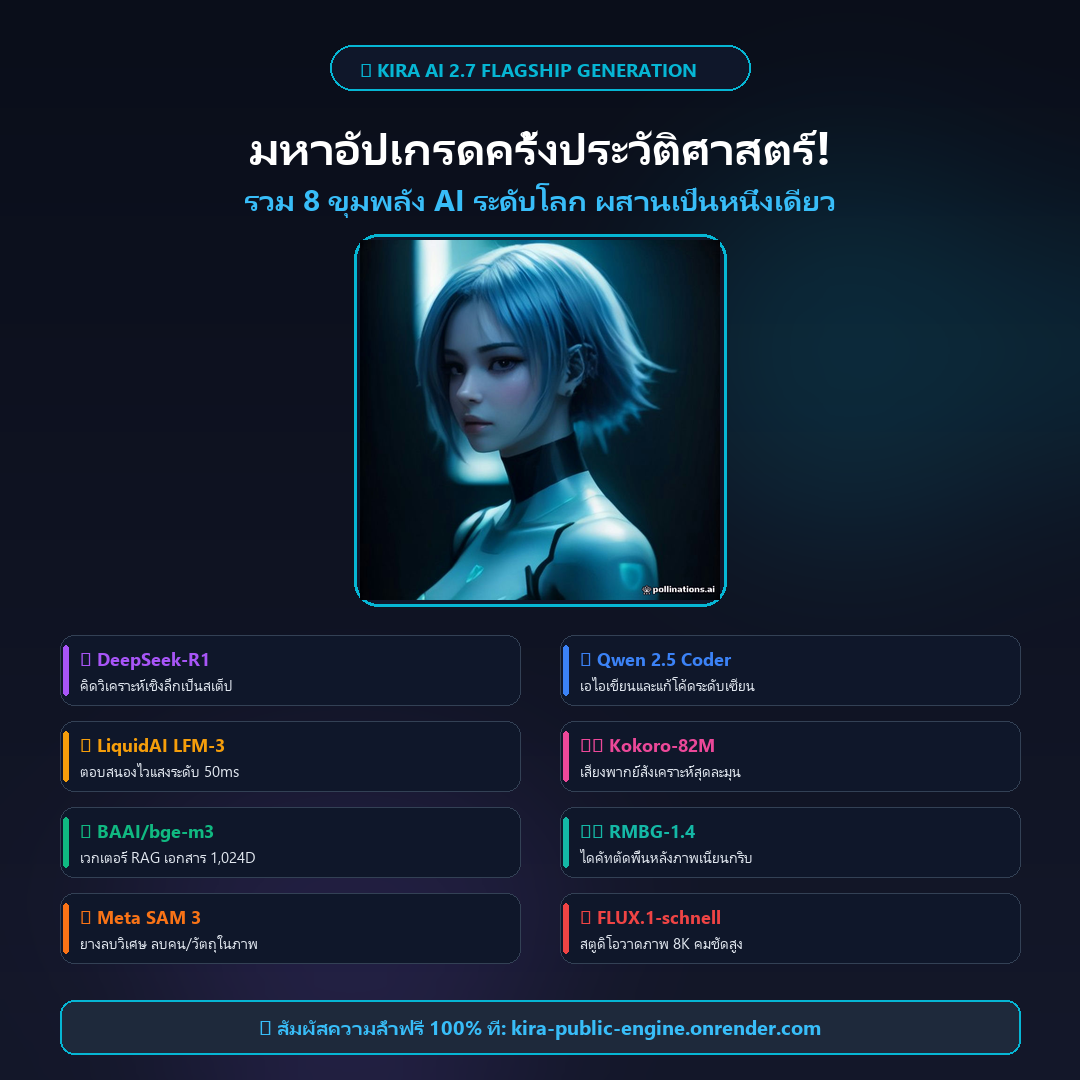
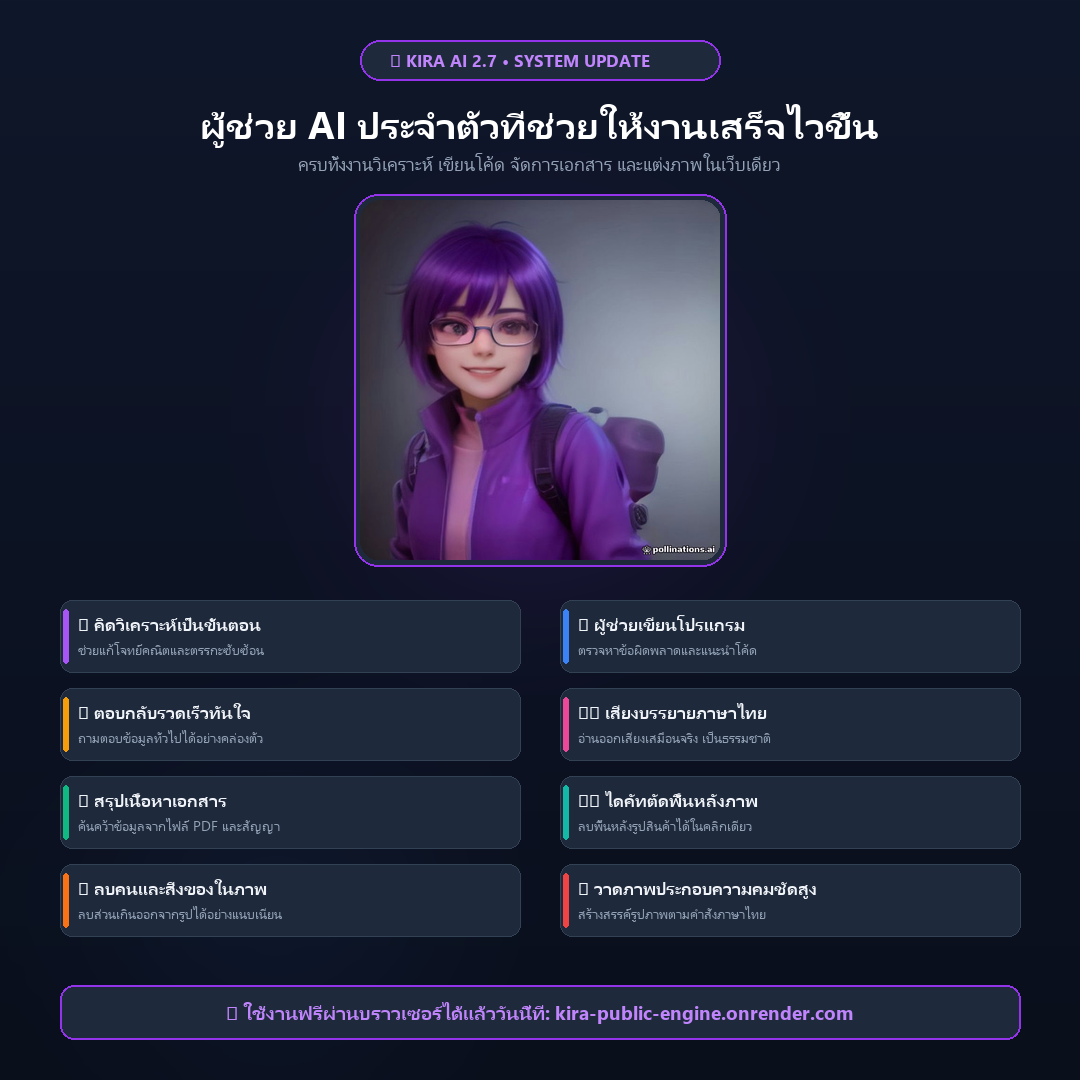
feat(marketing): update refined chibi engineer 3d graphics and grounded facebook copy

Changed region(s): [[0.0306, 0.0306, 0.9472, 1.0], [0.9167, 0.7028, 0.9472, 0.7333]]

diff --git a/CURRENT_TASK.md b/CURRENT_TASK.md
@@ -4,30 +4,37 @@
 
 ---
 
-### 🕒 อัปเดตล่าสุด: 2 พฤศจิกายน 2026 (Kira 2.7 Flagship - Phase 8: Official Launch Promotion & Graphic Assets)
+### 🕒 อัปเดตล่าสุด: 2 พฤศจิกายน 2026 (Kira 2.7 Flagship - Phase 8: Refined Chibi Engineer Mascot & Grounded Facebook Marketing Assets)
 
 #### 1. 🔑 งานระดับจุลภาคที่เพิ่งทำเสร็จล่าสุด (Latest Micro-Task):
-* **จัดทำชุดกราฟิกและแคมเปญโปรโมต Kira 2.7 Flagship สำหรับ Facebook (`static/images/`, Artifacts):**
-  1. **🎨 ผลิตภาพกราฟิกโปรโมตระดับพรีเมียม 2 รูปแบบ:**
-     - **Facebook Landscape Banner (1200 x 630 px):** เหมาะสำหรับโพสต์ลิงก์เว็บ แบนเนอร์หน้าเพจ และ Facebook Feed มาตรฐาน
-     - **Facebook / Instagram Square Master Graphic (1080 x 1080 px):** สัดส่วน 1:1 เหมาะสำหรับโพสต์มือถือและ Carousel
-     - ผสานคาแรคเตอร์ Kira AI สไตล์ Sci-Fi อนาคตจาก FLUX.1 ร่วมกับการจัดเลย์เอาต์การ์ดสรุป 8 ขุมพลัง AI ระดับโลก (DeepSeek-R1, Qwen Coder, Liquid LFM, Kokoro, BGE-M3, RMBG-1.4, Meta SAM 3, FLUX.1)
-  2. **✍ ร่างแคปชันโพสต์โปรโมต Facebook 3 สไตล์:**
-     - สไตล์ที่ 1: **สายไวรัลจัดเต็ม (Viral & High Impact)** — เน้นกระแส AI ระดับโลกฟรี 100% ดึงดูดคนทั่วไป
-     - สไตล์ที่ 2: **สายเทค & คนทำงาน (Professional & Developer/Creator Focus)** — เน้นแก้ปัญหา เขียนโค้ด ทำเอกสาร RAG และแต่งรูป
-     - สไตล์ที่ 3: **สายกระชับตรงประเด็น (Short & Punchy)** — อ่านจบใน 15 วินาที พร้อมลิงก์เข้าใช้งานทันที
-  3. **🌐 ลิงก์ระบบพร้อมใช้งานจริง:** `https://kira-public-engine.onrender.com/` (สถานะเซิร์ฟเวอร์ Render: 200 Healthy)
+* **ขัดเกลากราฟิกและชุดคำโปรโมต Facebook ตามแนวทางของบอส 100% (`static/images/`, Artifacts):**
+  1. **💜 คืนชีพคาแรคเตอร์ประจำตัวคิระ (Chibi 3D Anime Purple-Haired Engineer):**
+     - น้องคิระผมสีม่วงสดใส ดวงตาสีไวโอเลต ในชุดวิศวกรและแว่น Safety Goggles สไตล์ 3D อนิเมะ ชิบิ น่ารัก สดใส เป็นมิตร
+     - วางตำแหน่งเคียงข้างชุดการ์ดฟังก์ชันอย่างลงตัว ทั้งขนาด Landscape (1200 x 630 px) และ Square (1080 x 1080 px)
+  2. **🛡 กลยุทธ์ปกป้องความลับทางการค้า (IP Protection & Anti-Copying):**
+     - ไม่เปิดเผยชื่อโมเดลภายนอก (เช่น DeepSeek, Qwen, BGE-M3, Meta SAM, FLUX) ให้คู่แข่งลอกเลียนแบบ
+     - นำเสนอในฐานะ **"ฟังก์ชันการทำงานจริงของ Kira AI"** ที่จับต้องได้:
+       - 🧠 คิดวิเคราะห์เชิงลึก (แก้โจทย์ซับซ้อน อธิบายวิธีคิดเป็นขั้นตอน)
+       - 💻 ผู้ช่วยเขียนโปรแกรม (ตรวจบั๊กและแนะนำโค้ด)
+       - ⚡ ตอบกลับรวดเร็วทันใจ (สนทนาคล่องตัว ถามตอบทันใจ)
+       - 🎙 เสียงบรรยายภาษาไทย (อ่านออกเสียงเสมือนจริง เป็นธรรมชาติ)
+       - 📂 สรุปเนื้อหาเอกสาร (ค้นคว้าข้อมูลจากไฟล์ PDF และสัญญา)
+       - ✂ ไดคัทตัดพื้นหลังภาพ (ลบพื้นหลังภาพสินค้าในคลิกเดียว)
+       - 🪄 ลบคนและสิ่งของในภาพ (ลบส่วนเกินออกจากรูปได้อย่างแนบเนียน)
+       - 🎨 สร้างภาพประกอบความคมชัดสูง (วาดภาพประกอบตามคำสั่งภาษาไทย)
+  3. **🎯 ภาษาที่อยู่ในพื้นที่ความจริง (Grounded & Credible Copywriting):**
+     - ปรับสำนวนให้ดูน่าเชื่อถือ เป็นมืออาชีพ ไม่เบียว ไม่โอเวอร์เกินจริง เน้นประโยชน์ต่อการเรียนและการทำงานจริง
 
 #### 2. 🚀 สถานะการ Deploy (Production Status):
-* **Git Commit ล่าสุด:** `feat(marketing): add official Facebook promotional graphics for Kira 2.7 Flagship release`
+* **Git Commit ล่าสุด:** `feat(marketing): update refined chibi engineer 3d graphics and grounded facebook copy`
 * **สถานะบน Render:** ทำการ Git Push สู่ GitHub Repository `main` เรียบร้อยแล้ว
 
-#### 3. 🏆 สรุป 8 ขุมพลัง Hugging Face ใน Kira 2.7 Flagship:
-* ✅ **1. DeepSeek-R1:** คิดเชิงลึกทีละสเต็ป (Reasoning)
-* ✅ **2. Qwen 2.5 Coder 32B:** เอไอเขียนและตรวจโค้ด (Senior Coder)
-* ✅ **3. LiquidAI LFM-3:** โต้ตอบเร็วแสง 50ms (Flash Core)
-* ✅ **4. Kokoro-82M:** เสียงพากย์สังเคราะห์ Neural Voice
-* ✅ **5. BAAI/bge-m3:** คลังความรู้เอกสาร 1,024 มิติ (RAG Vault)
-* ✅ **6. RMBG-1.4:** ไดคัทตัดพื้นหลังรูปภาพ In-Browser
-* ✅ **7. Meta SAM 3:** ยางลบเวทมนตร์ลบคน/วัตถุเนียนกริบ
-* ✅ **8. FLUX.1-schnell:** สตูดิโอวาดภาพ 8K 4-Step Diffusion
+#### 3. 🏆 สรุป 8 ฟังก์ชันหลักใน Kira 2.7 Flagship:
+* ✅ 1. Advanced Reasoning & Logic Thinking
+* ✅ 2. Intelligent Code Assistant & Debugger
+* ✅ 3. Ultra-Fast Conversational Response
+* ✅ 4. Natural Thai Neural Voice Synthesis
+* ✅ 5. Long-Context Document RAG Vault (8,192 Context)
+* ✅ 6. In-Browser Instant Background Remover
+* ✅ 7. Inpainting Object & Watermark Eraser
+* ✅ 8. Studio Diffusion High-Resolution Art Generator
